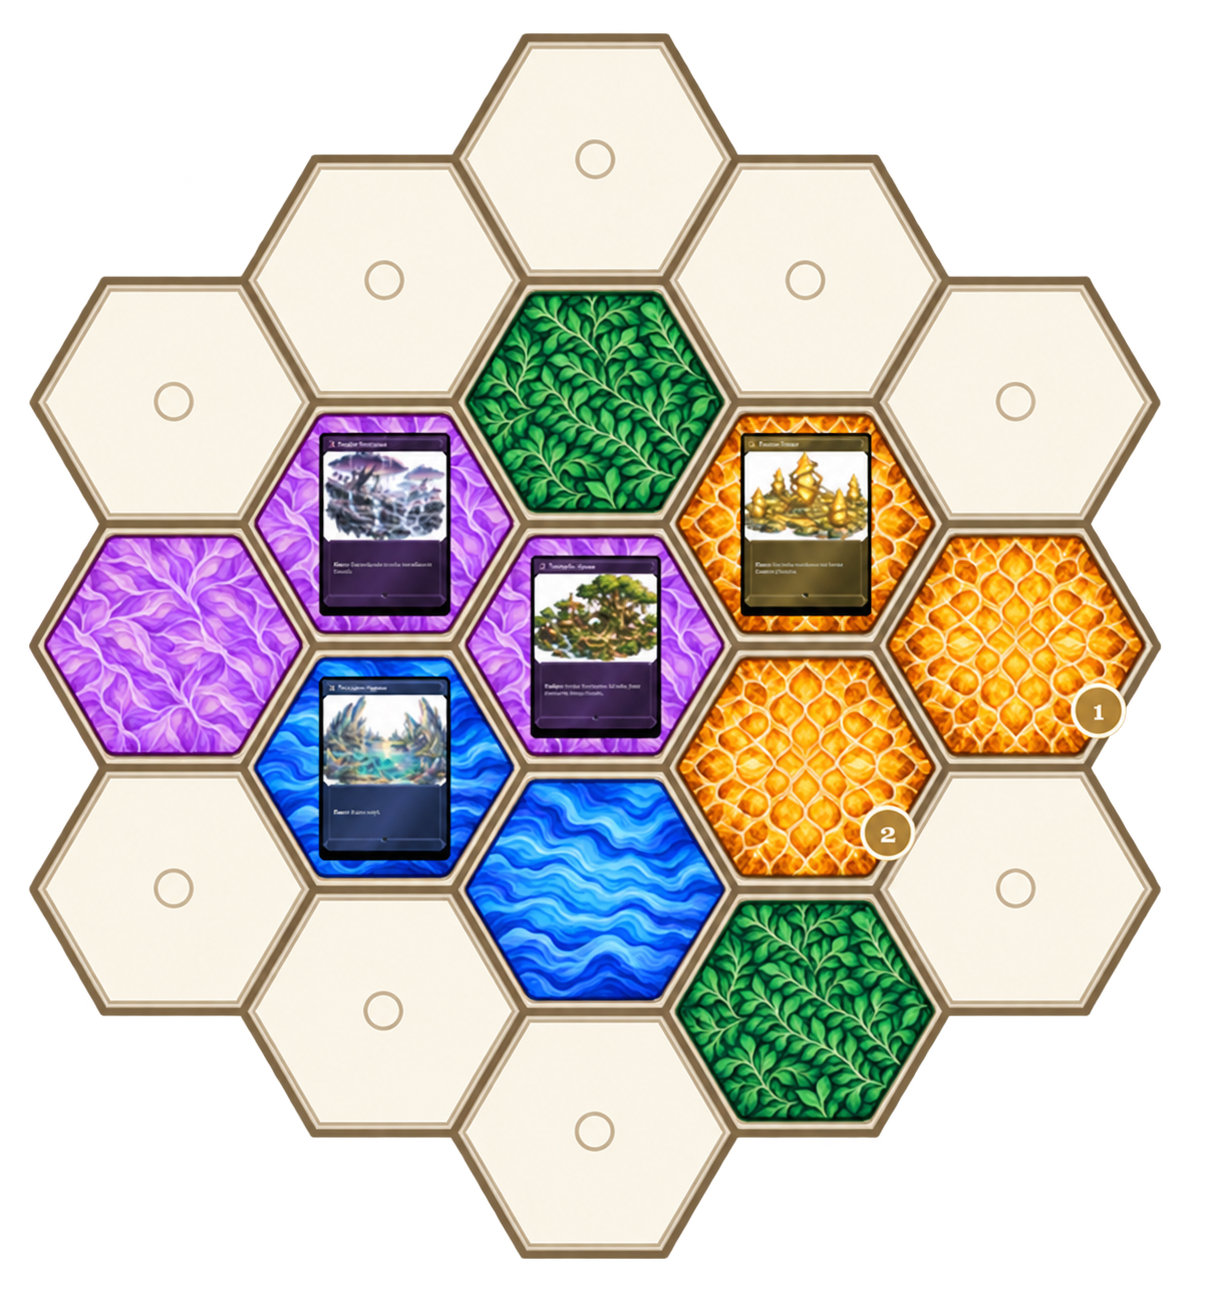
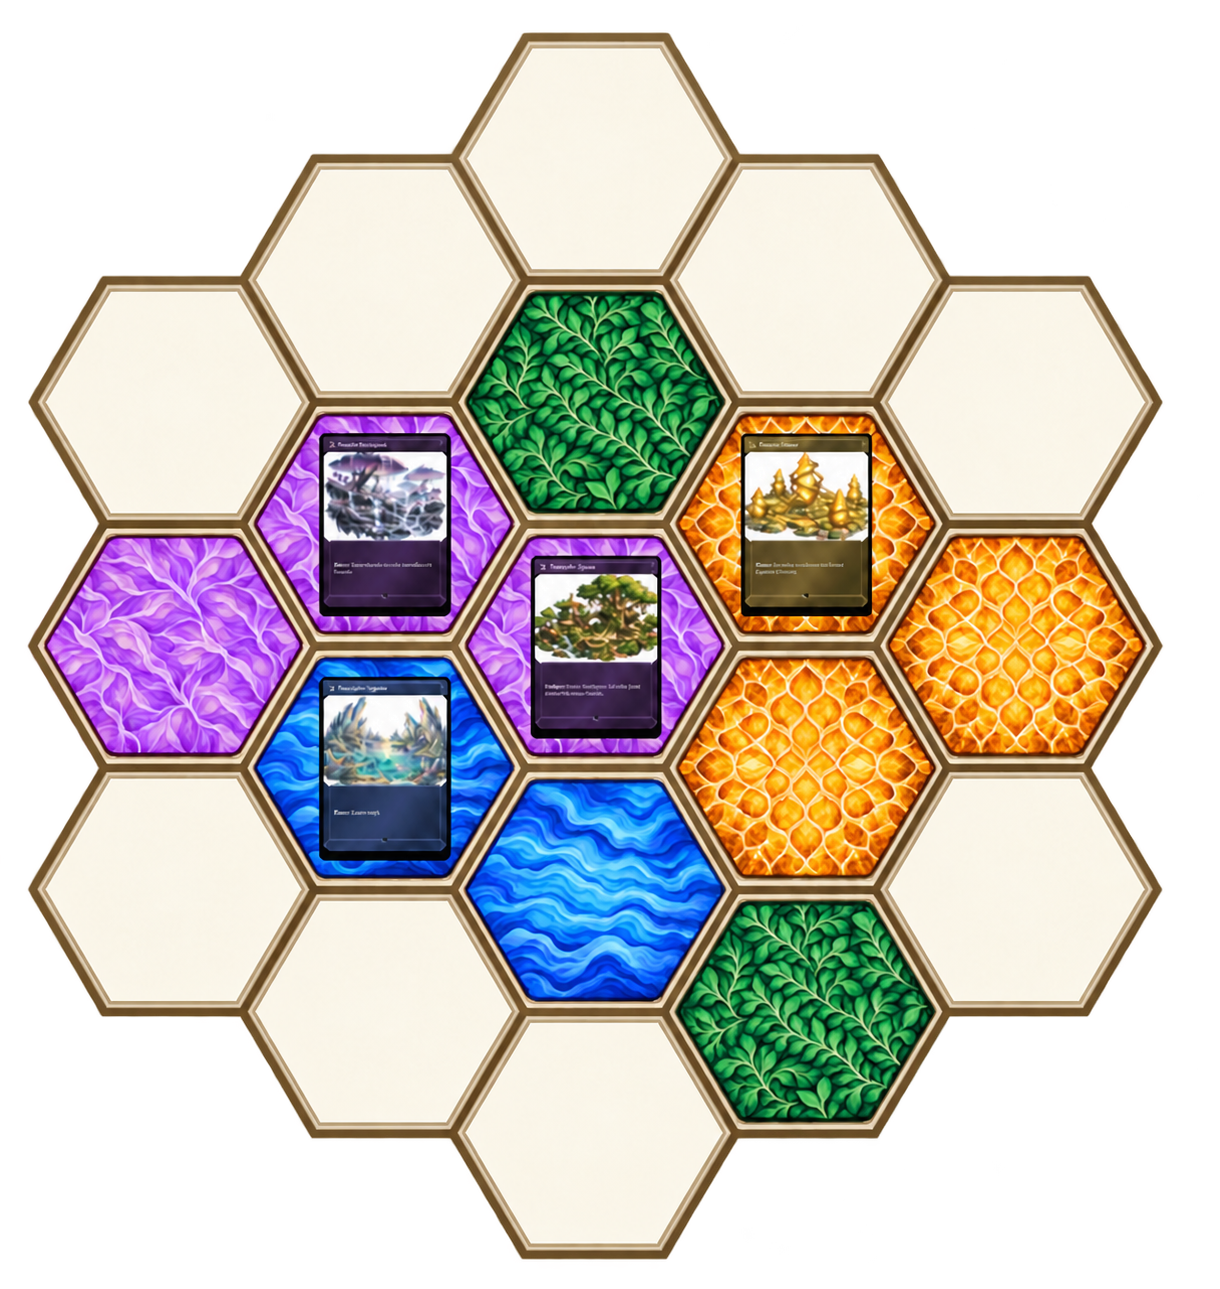
Update About board illustration

diff --git a/helianthe/index.html b/helianthe/index.html
@@ -200,7 +200,7 @@
           <p>The board begins almost empty. Over successive Seasons, habitats, places, characters, and events appear — and the traces of those decisions become a map of the entire game.</p>
         </div>
         <div class="about-grid">
-          <article class="about-section about-principles"><h2>Vision &amp; ideology</h2><div class="vision-layout"><div class="vision-copy"><p>Helianthe is a game about a future built together with the living world, not at its expense. Every match should leave behind a readable landscape: where the first forest grew, which settlement became dependent on solar energy, and which fields survived through cooperation.</p><p>The game does not treat nature and technology as opposites. Symbiosis, flowing water, community renewal, and managed energy are different paths toward regeneration. Victory belongs to the vision that becomes most visible on the shared board.</p></div><img class="vision-board-image" src="./assets/vision-board-transparent.png" alt="A shared Helianthe game board with colored Terrain fields and Entity cards"></div><h3>Design philosophy</h3><ul><li>One board, many visions — players share the geography and change it for different purposes.</li><li>Cards are changes, not units — every card describes an influence on the world.</li><li>Spatial decisions matter more than combat arithmetic.</li><li>Regeneration replaces extraction as the primary language of development.</li><li>The world reacts — neighboring Fields and the evolving board state matter.</li></ul></article>
+          <article class="about-section about-principles"><h2>Vision &amp; ideology</h2><div class="vision-layout"><div class="vision-copy"><p>Helianthe is a game about a future built together with the living world, not at its expense. Every match should leave behind a readable landscape: where the first forest grew, which settlement became dependent on solar energy, and which fields survived through cooperation.</p><p>The game does not treat nature and technology as opposites. Symbiosis, flowing water, community renewal, and managed energy are different paths toward regeneration. Victory belongs to the vision that becomes most visible on the shared board.</p></div><a class="vision-board-link" href="./assets/vision-board-transparent.png?v=markers-removed-1" target="_blank" rel="noopener" aria-label="Open the Helianthe game board image reference"><img class="vision-board-image" src="./assets/vision-board-transparent.png?v=markers-removed-1" alt="A shared Helianthe game board with colored Terrain fields and Entity cards"></a></div><h3>Design philosophy</h3><ul><li>One board, many visions — players share the geography and change it for different purposes.</li><li>Cards are changes, not units — every card describes an influence on the world.</li><li>Spatial decisions matter more than combat arithmetic.</li><li>Regeneration replaces extraction as the primary language of development.</li><li>The world reacts — neighboring Fields and the evolving board state matter.</li></ul></article>
           <article class="about-section about-rules"><div class="rules-layout"><div class="terrain-reference"><div class="terrain-item"><span class="terrain-icon terrain-flow" aria-hidden="true"></span><strong>Flow</strong></div><div class="terrain-item"><span class="terrain-icon terrain-radiance" aria-hidden="true"></span><strong>Radiance</strong></div><div class="terrain-item"><span class="terrain-icon terrain-symbiosis" aria-hidden="true"></span><strong>Symbiosis</strong></div><div class="terrain-item"><span class="terrain-icon terrain-verdant" aria-hidden="true"></span><strong>Verdant</strong></div></div><div class="rules-copy"><h2>Rules at a glance</h2><p>There are four Terrain types: Flow, Radiance, Symbiosis, and Verdant. Each player chooses a Patron and builds their deck around that Patron’s faction and vision.</p><h3>Patron visions</h3><ul><li><strong>Verdant:</strong> fill the entire board with Terrain, with no Verdant Terrain affected by Crisis.</li><li><strong>Radiance:</strong> collect 20 Solar counters on Radiance Terrains.</li><li><strong>Symbiosis:</strong> achieve 5 Entanglements — connections between Symbiosis Terrain and other Terrain.</li><li><strong>Flow:</strong> place 10 Flow Entities on any Terrain.</li></ul><h3>Core rules</h3><ol><li>The game continues until one or both players fulfil their vision.</li><li>The shared board has 19 Nodes. Players take turns, and each player draws one card at the beginning of their turn.</li><li>The game uses two card types: Events and Entities.</li><li>You may play any number of Events during your turn. Each Event is a one-time effect and goes straight to the Archive after resolving.</li><li>Play an Entity by placing it on a matching Terrain on the map. Alternatively, archive the Entity instead of activating its effect to create its matching Terrain and place that Terrain on the map.</li></ol></div></div></article>
         </div>
         </div>

diff --git a/helianthe/style.css b/helianthe/style.css
@@ -107,6 +107,8 @@ textarea { resize: vertical; }
 .about-section h3 { margin: 1rem 0 .35rem; color: #50705e; font-size: 1rem; }
 .about-section h3:first-of-type { margin-top: .2rem; }
 .vision-layout { display: grid; grid-template-columns: minmax(0, 1fr) minmax(220px, 36%); align-items: center; gap: 1.25rem; }
+.vision-board-link { display: block; min-width: 0; border-radius: 12px; }
+.vision-board-link:focus-visible { outline: 2px solid #265847; outline-offset: 4px; }
 .vision-copy { min-width: 0; }
 .vision-board-image { display: block; width: 100%; max-height: 360px; object-fit: contain; }
 .about-rules { grid-column: 1 / -1; }
